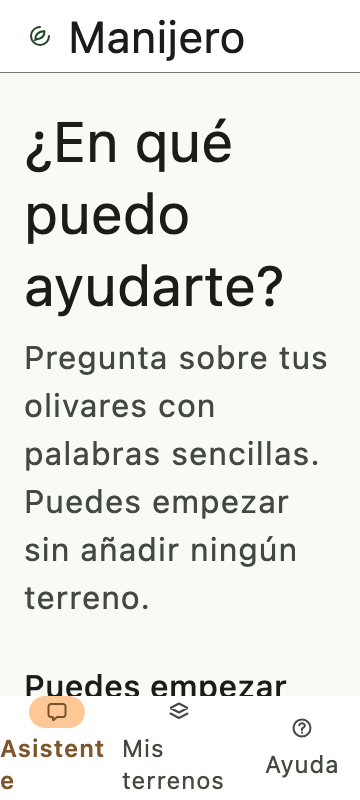
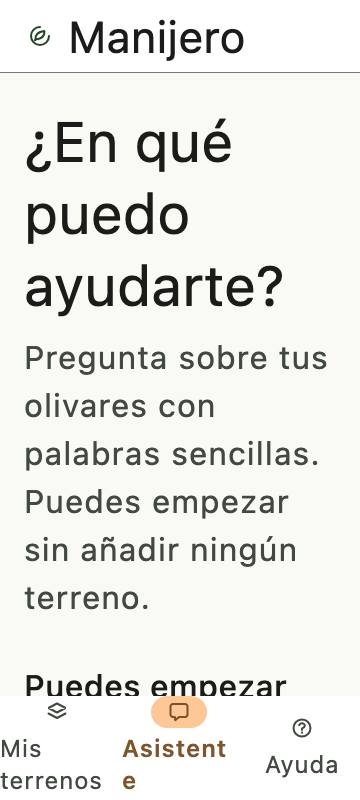
feat: put Mis terrenos first in the tab order
Declare AppSection in the tab order and filter it in availableSections so
the compact bar and the wide rail both start with Mis terrenos, followed by
Asistente and Ayuda. Re-record the four shell goldens per host.

Changed region(s): [[0.3361, 0.8438, 0.6417, 1.0], [0.0, 0.8438, 0.275, 1.0]]

diff --git a/shared/src/commonMain/kotlin/com/jamarglex/manijero/AppNavigation.kt b/shared/src/commonMain/kotlin/com/jamarglex/manijero/AppNavigation.kt
@@ -1,12 +1,13 @@
 package com.jamarglex.manijero
 
 /**
- * The three top-level places the shell exposes as tabs. The order is the tab order.
+ * The three top-level places the shell exposes as tabs, first tab first: `Mis terrenos`,
+ * `Asistente`, `Ayuda`.
  *
  * `Lands` is absent from [availableSections] when no local land repository is injected, so the
  * shell can never show a destination that cannot do anything.
  */
-internal enum class AppSection { Assistant, Lands, Help }
+internal enum class AppSection { Lands, Assistant, Help }
 
 /**
  * Every screen the composition root can show. `Privacy` and the three form routes are detail
@@ -16,11 +17,7 @@ internal enum class AppDestination { Chat, LandList, AddLand, EditLand, RemoveLa
 
 /** The destinations the shell may show, in tab order. */
 internal fun availableSections(landsAvailable: Boolean): List<AppSection> =
-    if (landsAvailable) {
-        listOf(AppSection.Assistant, AppSection.Lands, AppSection.Help)
-    } else {
-        listOf(AppSection.Assistant, AppSection.Help)
-    }
+    AppSection.entries.filter { landsAvailable || it != AppSection.Lands }
 
 /**
  * The screen shown after launch: `Mis terrenos` when a local land repository is injected, so the

diff --git a/shared/src/commonTest/kotlin/com/jamarglex/manijero/AppNavigationTest.kt b/shared/src/commonTest/kotlin/com/jamarglex/manijero/AppNavigationTest.kt
@@ -17,13 +17,22 @@ class AppNavigationTest {
     @Test
     fun `lands tab exists only with a local repository`() {
         assertEquals(
-            listOf(AppSection.Assistant, AppSection.Lands, AppSection.Help),
+            listOf(AppSection.Lands, AppSection.Assistant, AppSection.Help),
             availableSections(landsAvailable = true),
         )
         assertEquals(
             listOf(AppSection.Assistant, AppSection.Help),
             availableSections(landsAvailable = false),
         )
+    }
+
+    @Test
+    fun `lands opens on the leftmost tab and the assistant sits beside it`() {
+        val sections = availableSections(landsAvailable = true)
+
+        assertEquals(0, sections.indexOf(AppSection.Lands))
+        assertEquals(1, sections.indexOf(AppSection.Assistant))
+        assertEquals(2, sections.indexOf(AppSection.Help))
     }
 
     @Test

diff --git a/docs/specs/app_chrome_navigation.md b/docs/specs/app_chrome_navigation.md
@@ -5,10 +5,10 @@
 - **Feature:** `app_chrome_navigation` — add the app bar and adaptive navigation shell (`client`).
 - **Status at planning:** `not_started`; depends on accepted `ui_component_library`.
 - **Source behavior:** put the existing shared screens inside one shell: a brand top app bar, three
-  top-level destinations (Asistente, Mis terrenos, Ayuda), a bottom bar on compact windows and a
-  labelled navigation rail from 840 dp, real window-inset ownership, and predictable back rules. The
-  duplicate top-level `Mis terrenos` / `Volver` controls are removed because the tabs now own
-  navigation; forms keep `Cancelar`. No screen content is restyled.
+  top-level destinations (Mis terrenos, Asistente, Ayuda, in that tab order), a bottom bar on compact
+  windows and a labelled navigation rail from 840 dp, real window-inset ownership, and predictable
+  back rules. The duplicate top-level `Mis terrenos` / `Volver` controls are removed because the tabs
+  now own navigation; forms keep `Cancelar`. No screen content is restyled.
 - **Source plan:** [`docs/design/ui-refresh-plan.md`](../design/ui-refresh-plan.md) §3.5, §4.1
   ("App shell"), §5.1, §5.3 ("Volver removed once tabs exist"), §5.8, §8 P0-17…P0-19;
   `DESIGN.md` "Shared component layer" and "Layout and interaction".
@@ -67,9 +67,9 @@ accident.
 
 1. **One shell, three places.** On Android and Desktop the app renders a top app bar with the 32 dp
    brand mark and the visible title `Manijero`, then the selected screen inside the shell. Compact
-   windows (`< 840 dp`) show a bottom bar with `Asistente`, `Mis terrenos`, `Ayuda`; windows at
-   `>= 840 dp` show a labelled rail on the left and no bottom bar. Selection is the Material
-   indicator plus the heavier label, never colour alone.
+   windows (`< 840 dp`) show a bottom bar with `Mis terrenos`, `Asistente`, `Ayuda` from left to
+   right; windows at `>= 840 dp` show a labelled rail on the left in the same order and no bottom
+   bar. Selection is the Material indicator plus the heavier label, never colour alone.
 2. **Tabs are the only top-level navigation.** With a local land store injected the app opens on
    `Mis terrenos` (the saved lands are read once before the first list frame); without a store it
    opens on `Asistente`. Selecting a tab shows that section; the conversation state and the loaded
@@ -118,8 +118,9 @@ accident.
 ## Technical approach
 
 - **Navigation model.** Extract the small route vocabulary out of `App.kt` into `AppNavigation.kt`:
-  `AppSection { Assistant, Lands, Help }`, `AppDestination { Chat, LandList, AddLand, EditLand,
-  RemoveLand, Privacy, Coverage }`, `availableSections(landsAvailable)`,
+  `AppSection { Lands, Assistant, Help }` (tab order),
+  `AppDestination { Chat, LandList, AddLand, EditLand, RemoveLand, Privacy, Coverage }`,
+  `availableSections(landsAvailable)`,
   `tabForDestination(destination)`, `navigationVisible(destination)`,
   `sectionDestination(section)` and `backTarget(destination, previousSection)`. The functions are
   pure and unit-tested; `Privacy` resolves to the section the person came from, so it never clears

diff --git a/PROGRESS.md b/PROGRESS.md
@@ -21,7 +21,7 @@ Last updated: 2026-10-25.
 - `design_token_refresh`: the Stitch palette and token scale are implemented and contrast-gated in both appearances. No token-board preview (light, dark, or 2× text) was rendered, because the repository has no headless Compose preview renderer and this host stayed in dark appearance; board layout and 2× reflow remain manual checks. Screens are not restyled beyond the five card surfaces now on `surfaceContainerLowest`.
 - `brand_vectors`: eighteen monochrome vector assets and three decorative wrappers in `shared/src/commonMain`; no screen adopts them, so there is no user-visible surface yet. Evidence is the four review-only board goldens on the two host renderers only; no iOS build exercised the vector subset.
 - `ui_component_library`: fourteen presentational declarations in `shared/src/commonMain/.../design/` (nine component files plus two navigation files), test-only gallery, eight new review-only goldens (four per host). No screen adopts the layer, so there is no user-visible surface yet; evidence is host renders only. At 2× text the compact bottom-navigation labels wrap mid-word while remaining fully visible, recorded for `app_chrome_navigation`; the backend pytest tier was skipped because pytest is absent from the available interpreters.
-- `app_chrome_navigation`: the shell is the one frame for Android and Desktop (brand top bar, adaptive bottom bar/rail at 840 dp, tab selection, single inset owner, common back rules); with a local store the app opens on `Mis terrenos`, and the chat `Mis terrenos` button plus the lands/help `Volver` controls are removed. At 2× text on a compact window the bottom-navigation labels still wrap mid-word (pre-existing `ManijeroBottomNavigation` behavior); the device and Desktop checks are manual observations, the goldens are host renders only, and product-owner sign-off on the images is still pending.
+- `app_chrome_navigation`: the shell is the one frame for Android and Desktop (brand top bar, adaptive bottom bar/rail at 840 dp, tab selection in the order `Mis terrenos`, `Asistente`, `Ayuda`, single inset owner, common back rules); with a local store the app opens on `Mis terrenos`, and the chat `Mis terrenos` button plus the lands/help `Volver` controls are removed. At 2× text on a compact window the bottom-navigation labels still wrap mid-word (pre-existing `ManijeroBottomNavigation` behavior); the device and Desktop checks are manual observations, the goldens are host renders only, and product-owner sign-off on the images is still pending.
 
 **Open items**
 

diff --git a/DESIGN.md b/DESIGN.md
@@ -249,14 +249,15 @@ adopted by the screen refreshes.
   `ManijeroTopAppBar` with the brand mark and the visible `Manijero` title and **no right-side
   action**, the selected screen, and `ManijeroBottomNavigation` below 840 dp or
   `ManijeroNavigationRail` from 840 dp. With a local store injected the app opens on
-  `Mis terrenos`; without one it opens on `Asistente`, so no tab can be dead. Tabs are `Asistente`,
-  `Mis terrenos` and `Ayuda`; the lands tab is omitted when no local repository is injected. Tabs
-  are the only top-level navigation: screens must not add another `Volver` or `Mis terrenos` route. The bars are
-  hidden on add/edit/remove forms, which keep their own `Cancelar`; privacy stays a detail route with
-  its own `Volver`. Android system back returns lands → assistant, a form → lands, `Ayuda` → the tab
-  it was opened from, and privacy → the section it was opened from; it is not installed on the
-  assistant tab, so the platform default applies. The shell is the **single** owner of the status
-  bar, navigation bar, horizontal system-bar and ime insets; the bars and screens add none.
+  `Mis terrenos`; without one it opens on `Asistente`, so no tab can be dead. Tabs run left to right
+  as `Mis terrenos`, `Asistente` and `Ayuda` (top to bottom on the rail); the lands tab is omitted
+  when no local repository is injected. Tabs are the only top-level navigation: screens must not add
+  another `Volver` or `Mis terrenos` route. The bars are hidden on add/edit/remove forms, which keep
+  their own `Cancelar`; privacy stays a detail route with its own `Volver`. Android system back
+  returns lands → assistant, a form → lands, `Ayuda` → the tab it was opened from, and privacy → the
+  section it was opened from; it is not installed on the assistant tab, so the platform default
+  applies. The shell is the **single** owner of the status bar, navigation bar, horizontal
+  system-bar and ime insets; the bars and screens add none.
   Privacy remains reachable from the chat footer and the help screen.
 - **Evidence.** The review-only `commonTest` gallery is captured at 1200×3000 dp and at 360 dp with
   2× text on both hosts; see `docs/screenshot-regression.md`.

diff --git a/docs/progress/session-log.md b/docs/progress/session-log.md
@@ -74,4 +74,4 @@ restate evidence here.
 | 2026-10-25 | `brand_vectors` accepted; eighteen theme-tinted vector assets and three decorative wrappers, no screen adoption, four review-only board goldens added with the twelve app baselines unchanged. | `docs/specs/brand_vectors.md` · `docs/validations/brand_vectors.md` |
 | 2026-10-25 | `ui_component_library` accepted; fourteen presentational declarations in `design/` (nine component files plus two navigation files), test-only gallery, eight review-only goldens added with the sixteen prior PNGs unchanged; no screen adoption, host renders only, backend pytest tier skipped without pytest. | `docs/specs/ui_component_library.md` · `docs/validations/ui_component_library.md` |
 | 2026-10-25 | `app_chrome_navigation` accepted; one shell with the brand top bar and adaptive bottom bar/rail, tab selection and back rules, duplicate chat/lands/help routes removed, four shell goldens per host; 2× label wrap remains pre-existing and 32-image sign-off is pending. | `docs/specs/app_chrome_navigation.md` · `docs/validations/app_chrome_navigation.md` |
-| 2026-10-25 | `app_chrome_navigation` post-acceptance change: `Mis terrenos` is the launch tab when a local store is injected (assistant otherwise), with a once-hydrated guarded land read and back-to-tab help return; 18 navigation and 4 launch tests, no golden change. | `docs/specs/app_chrome_navigation.md` · `docs/validations/app_chrome_navigation.md` |
+| 2026-10-25 | `app_chrome_navigation` post-acceptance changes: `Mis terrenos` is the launch tab and the leftmost tab (order `Mis terrenos`, `Asistente`, `Ayuda`) when a local store is injected (assistant otherwise), with a once-hydrated guarded land read and back-to-tab help return; new navigation/launch tests and re-recorded shell goldens. | `docs/specs/app_chrome_navigation.md` · `docs/validations/app_chrome_navigation.md` |

diff --git a/docs/specs/app_chrome_navigation.appendix.md b/docs/specs/app_chrome_navigation.appendix.md
@@ -250,6 +250,25 @@ the Android emulator the app opens with `Mis terrenos` selected, shows the saved
 force-stop and relaunch, still switches tabs normally, and back → `Ayuda` → back returns to
 `Asistente`; the Desktop app also opens on `Mis terrenos`.
 
+### Post-acceptance change: `Mis terrenos` is the leftmost tab
+
+The owner then asked that `Mis terrenos` be the first tab, followed by `Asistente` and `Ayuda` in
+that order. `AppSection` now declares `{ Lands, Assistant, Help }` and `availableSections` filters
+that declaration (`Lands` still disappears without a local repository), so the compact bottom bar
+and the wide rail both lay out those tabs left to right/top to bottom. A new pure test pins the
+three tab positions and asserts the existing expected order. The four shell goldens per host were
+re-recorded through `recordDesktopScreenshots`/`recordAndroidScreenshots` with `--tests
+AppShellScreenshotsTest` and reviewed: the bar shows `Mis terrenos`, `Asistente`, `Ayuda` with the
+lands pill on the left, and the rail lists the same order. No other golden regressed.
+
+Re-verified after the reorder: focused block exit 0 with 221 host tests (19 in `AppNavigationTest`),
+`--verify` exit 0 (`BUILD SUCCESSFUL`, 88 actionable tasks), iOS simulator compile `BUILD
+SUCCESSFUL`. On the Android emulator the first tab is `Mis terrenos` (its selected pill covers the
+left third of the bar), followed by `Asistente` and `Ayuda`, and the app still launches on the saved
+`La Loma by` list. The wide rail's longest label still sits flush against the window edge at the
+default rail width, exactly as in the accepted rail goldens; the reorder did not change the rail
+width or the already-recorded 2× wrap limit.
+
 ### Screenshot review (performed 2026-10-25)
 
 New and recorded (8 images, opened at full size): Desktop

diff --git a/CONSTRAINTS.md b/CONSTRAINTS.md
@@ -260,11 +260,12 @@ Operational MUST/MUST NOT rules that future features have to respect on top of
   system-bar and ime window insets; the top app bar, navigation bar, rail and every hosted screen
   MUST NOT add their own window-inset padding. Reason: `app_chrome_navigation` made the shell the one
   frame, and a second inset owner double-pads or draws under a system bar.
-- **MUST**: the shell tabs (`Asistente`, `Mis terrenos`, `Ayuda`) are the only top-level navigation;
-  a screen MUST NOT re-add a top-level `Volver` or `Mis terrenos` affordance. The lands tab MUST be
-  omitted when no local `LandRepository` is injected, and a selected index MUST never point at an
-  omitted destination. Reason: `app_chrome_navigation` removed the duplicate routes; re-adding one
-  would give two authorities for the same move and could expose a dead destination.
+- **MUST**: the shell tabs (`Mis terrenos`, `Asistente`, `Ayuda`, in that left-to-right order) are
+  the only top-level navigation; a screen MUST NOT re-add a top-level `Volver` or `Mis terrenos`
+  affordance. The lands tab MUST be omitted when no local `LandRepository` is injected, and a
+  selected index MUST never point at an omitted destination. Reason: `app_chrome_navigation` removed
+  the duplicate routes; re-adding one would give two authorities for the same move and could expose
+  a dead destination.
 - **MUST**: add/edit/remove land forms hide the navigation bars and keep their own `Cancelar`;
   privacy stays a detail route with its own `Volver`. Android system back MUST follow
   `AppNavigation.backTarget` (lands → assistant, form → lands, help → the tab it was entered from,

diff --git a/docs/validations/app_chrome_navigation.md b/docs/validations/app_chrome_navigation.md
@@ -87,6 +87,16 @@ relaunch; back from `Mis terrenos` reaches `Asistente`; the Desktop app also ope
 This changes the user-visible entry point in the contract and `DESIGN.md`; the tabs, back rules,
 forms and inset ownership are otherwise unchanged.
 
+Post-acceptance tab-order change (same day): the owner asked for `Mis terrenos` to be the leftmost
+tab, followed by `Asistente` and `Ayuda`. `AppSection` is now declared in that tab order and
+`availableSections` filters it, so the compact bar and wide rail both start with `Mis terrenos`; a
+new pure test pins the three positions. The four shell goldens per host were re-recorded and
+reviewed for the new order. Re-verified: focused block exit 0 (221 host tests, 19 navigation),
+`--verify` exit 0 (88 tasks), iOS compile `BUILD SUCCESSFUL`, and on the emulator the first tab is
+`Mis terrenos` with its selected pill, still opening on the saved list. The rail's longest label
+remains flush with the window edge at the existing rail width, a pre-existing observation recorded
+in the appendix, not a new defect from the reorder.
+
 Declared limits, accepted as scope boundaries:
 
 - At 2× text on a 360 dp compact shell the bottom-navigation labels remain visible but wrap
